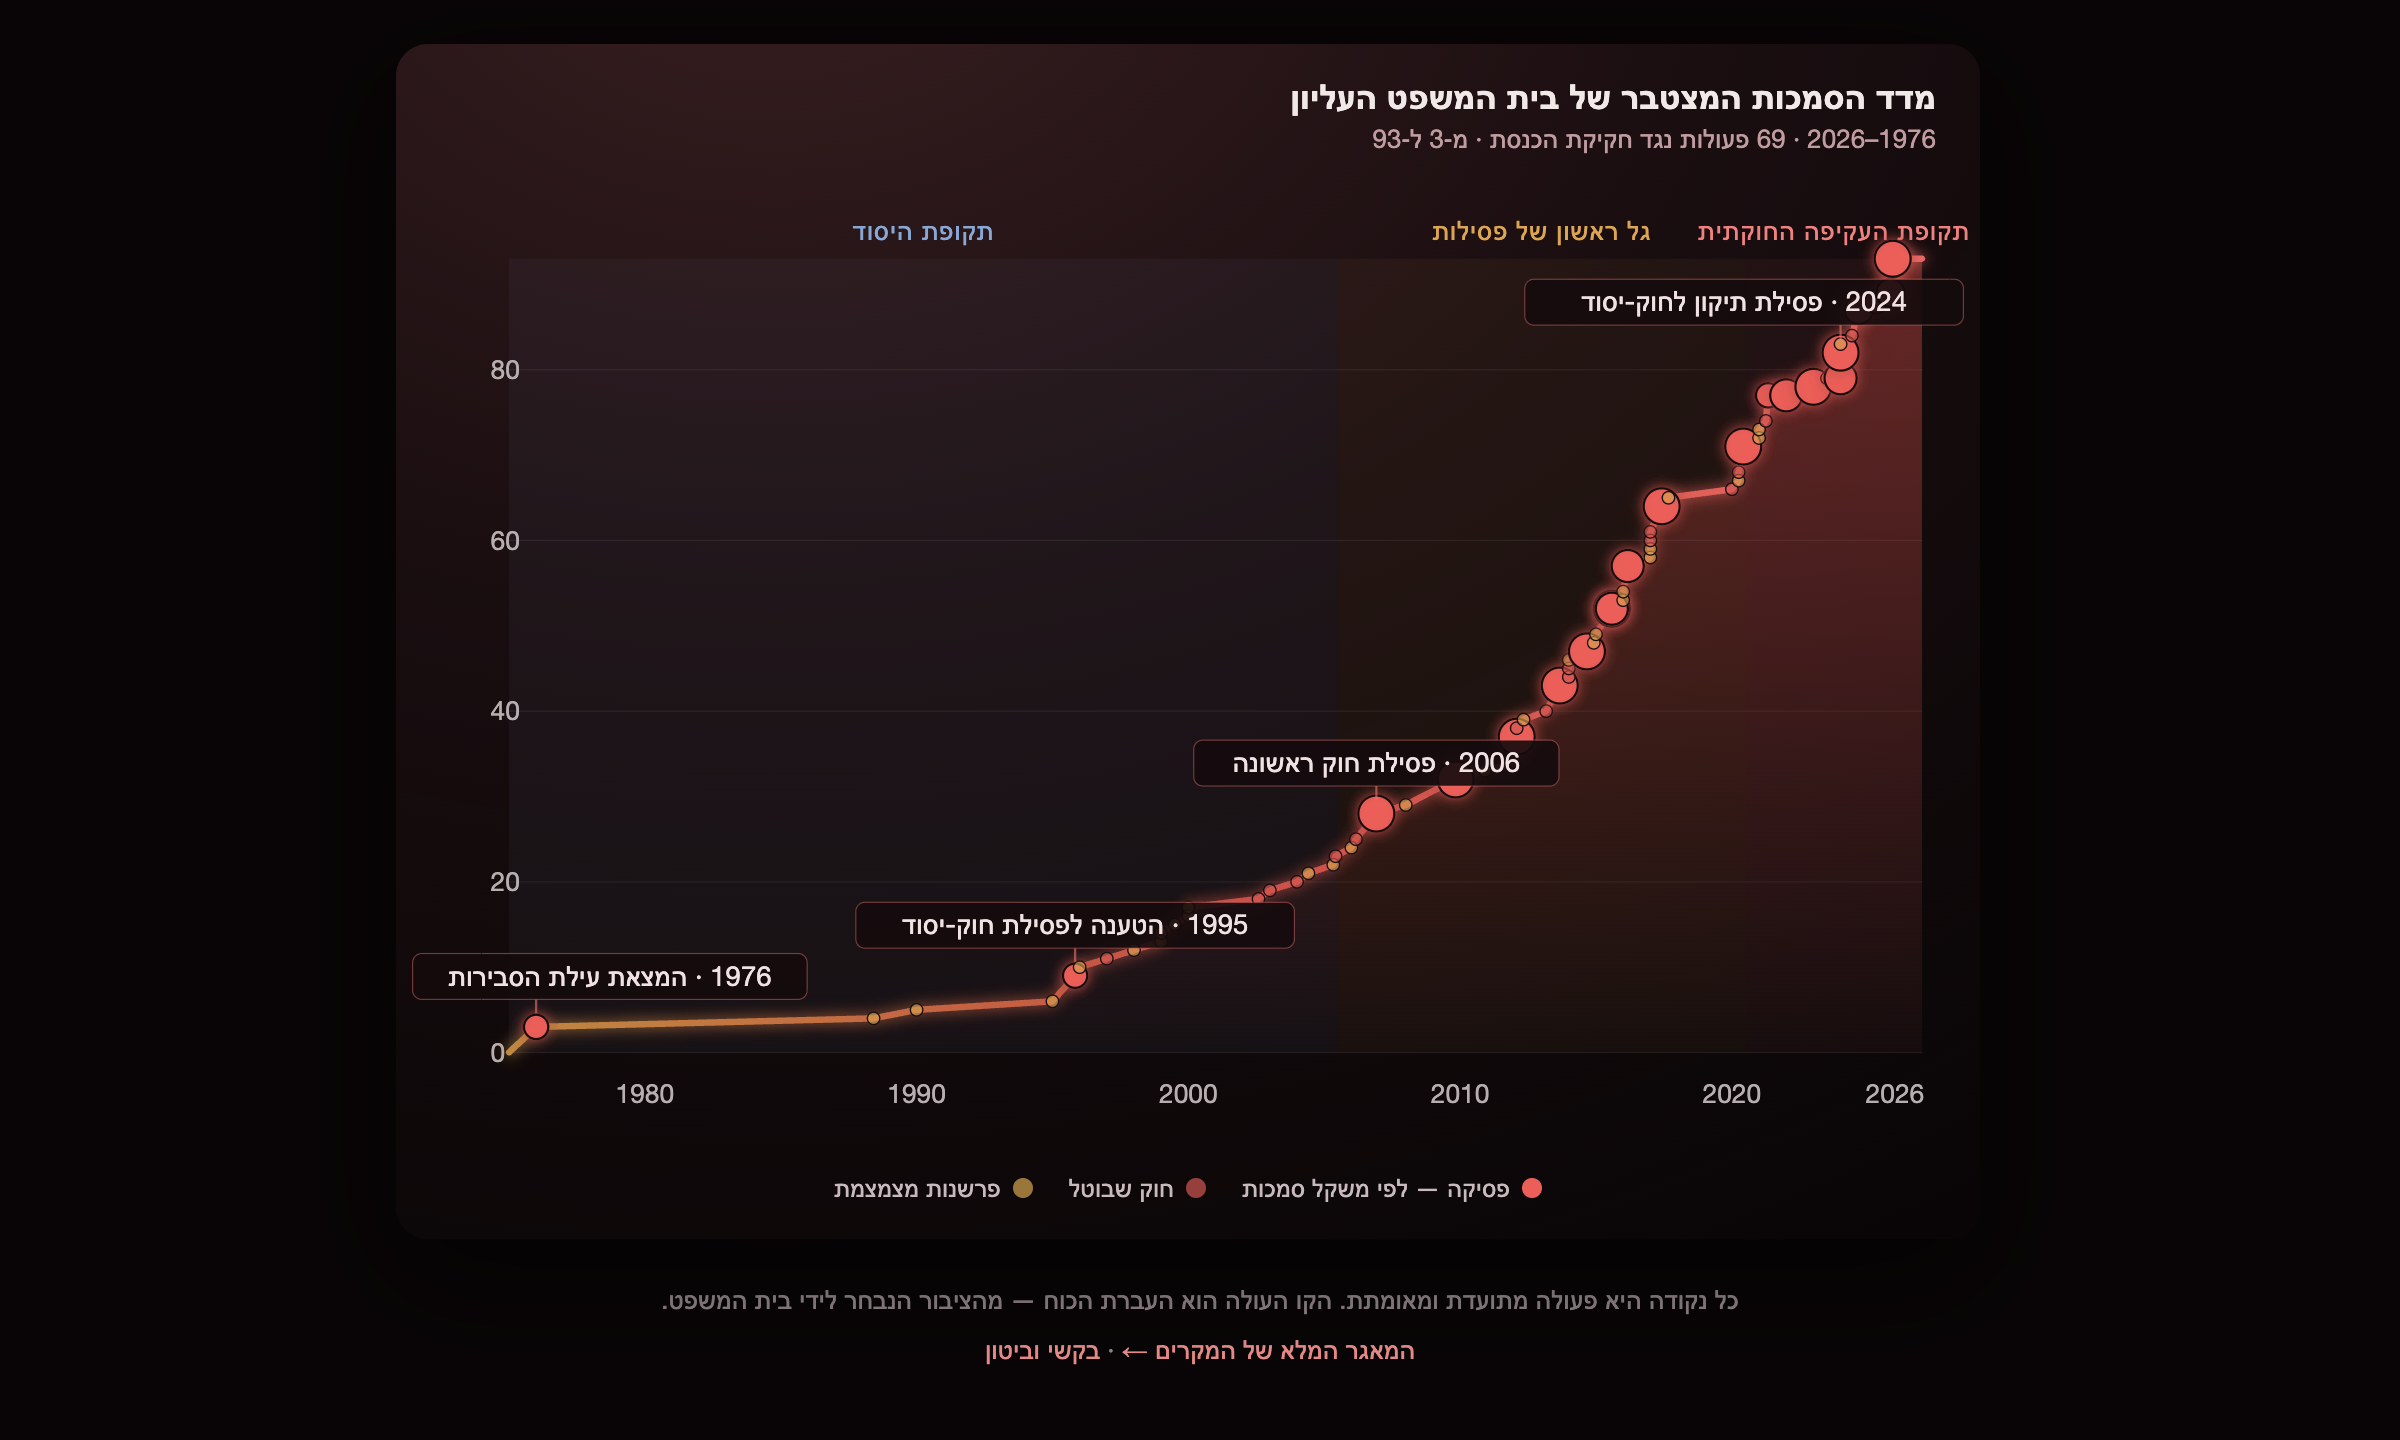
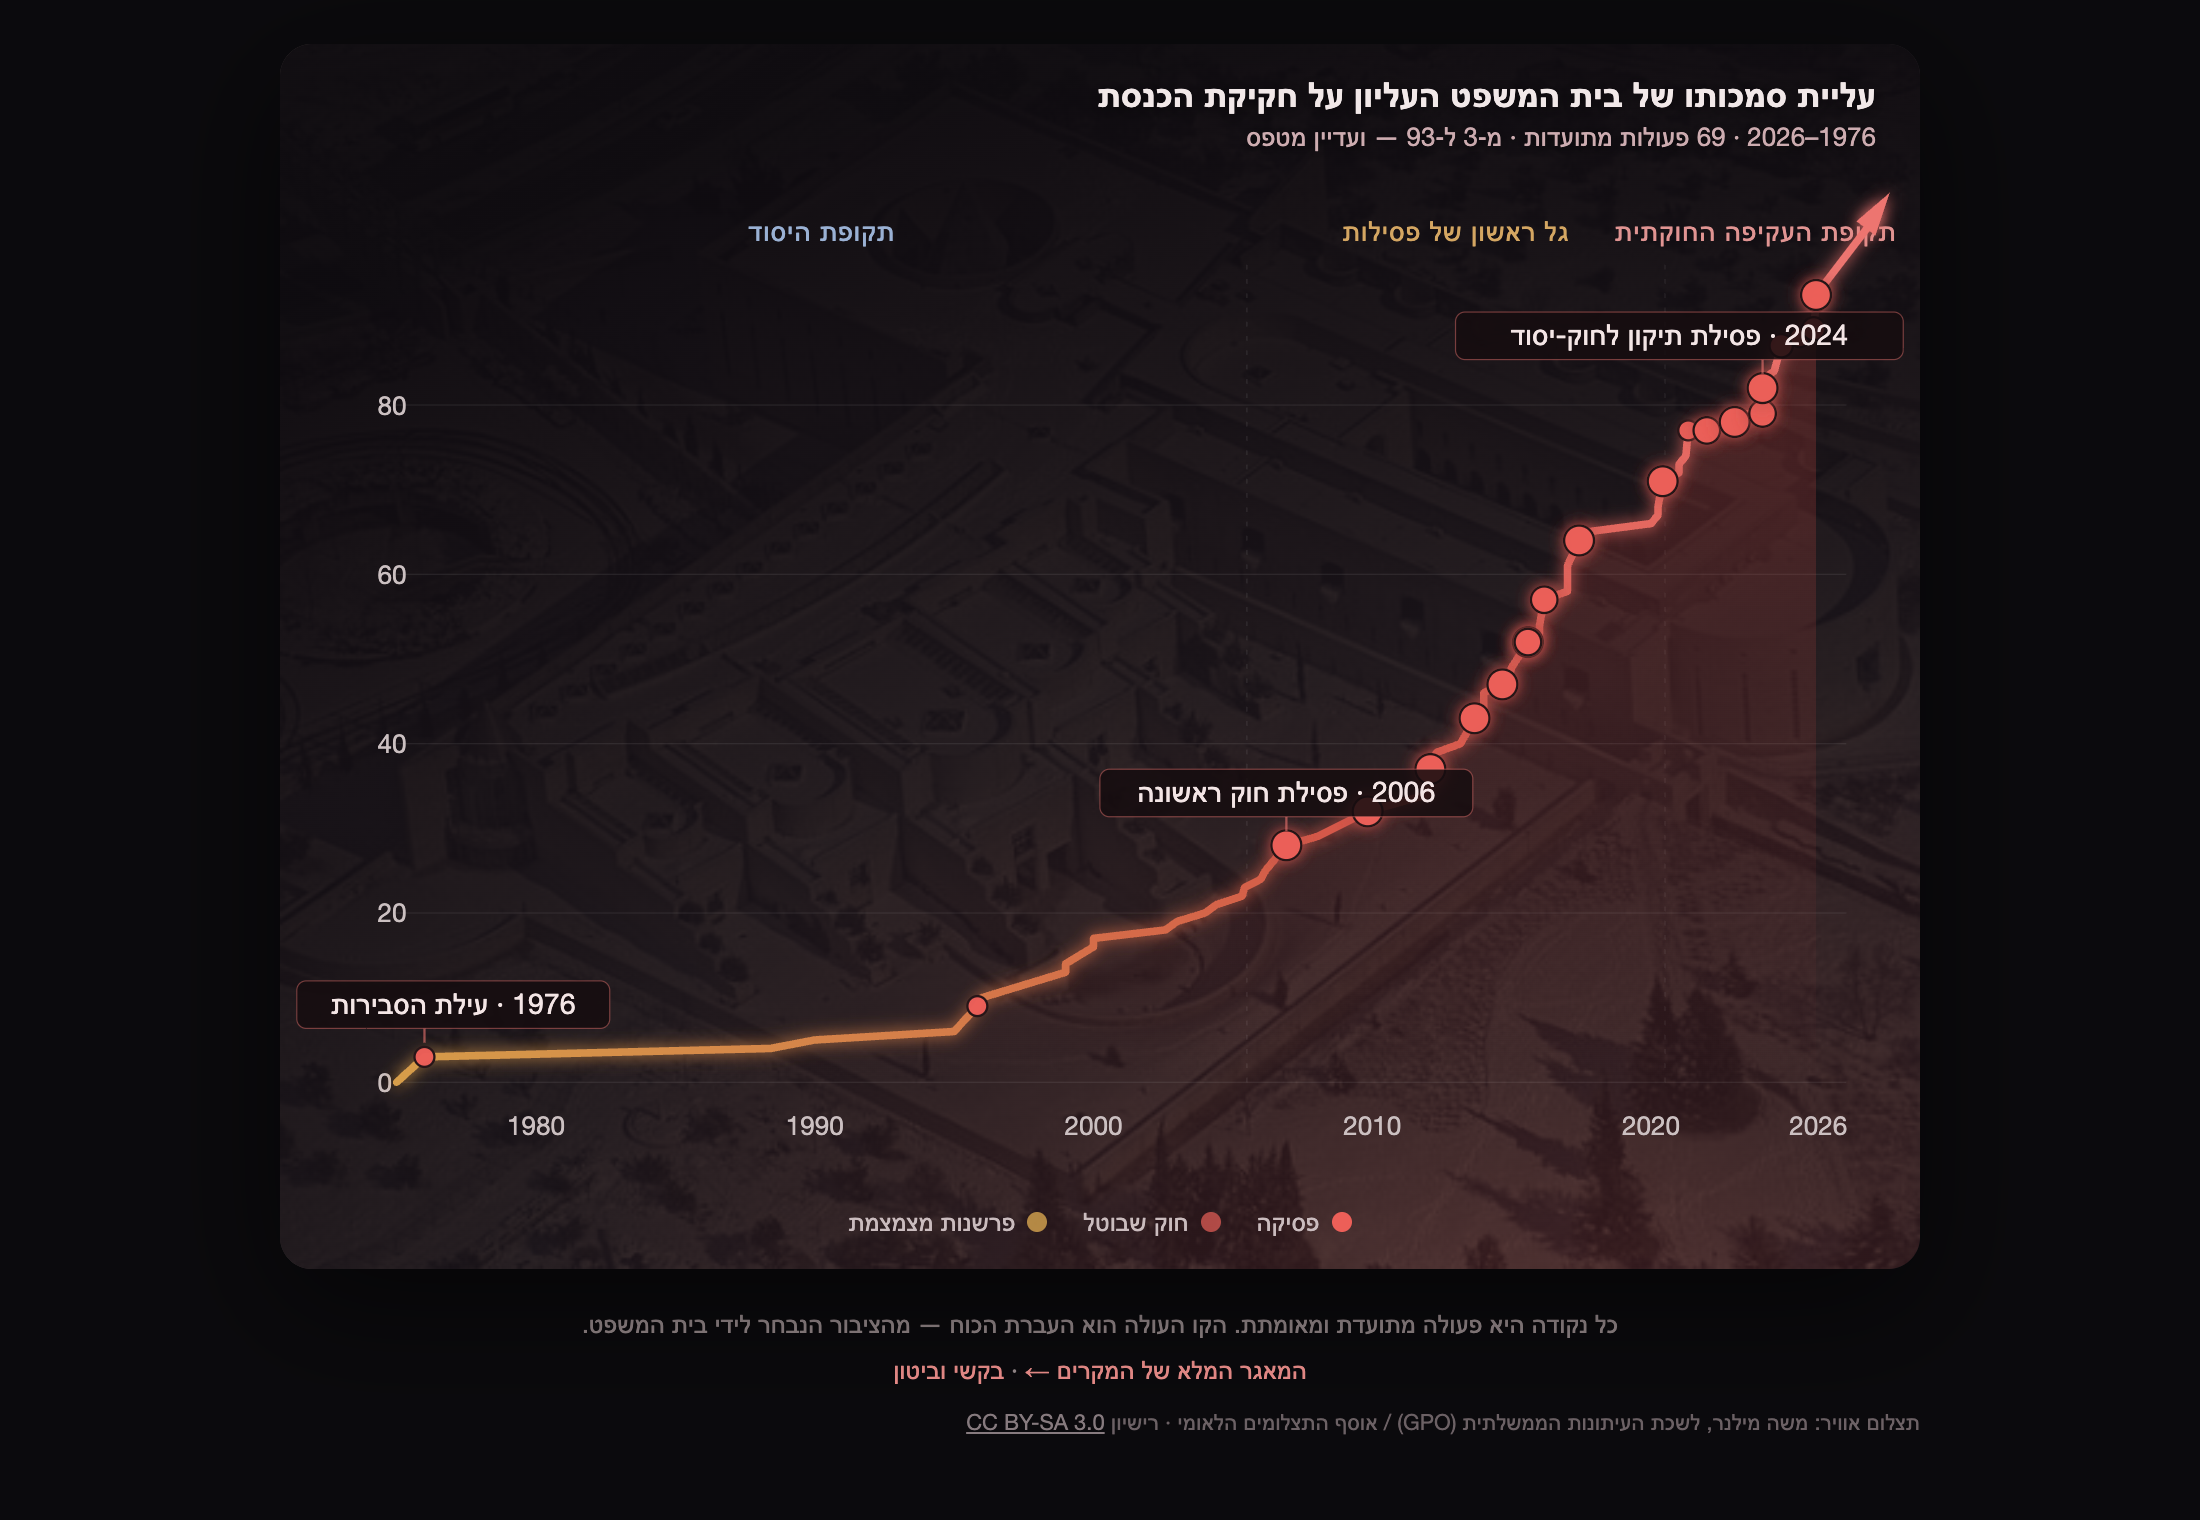
power-curve poster: real Supreme Court aerial as the building backdrop
Replaces the abstract hero with the building itself: the GPO aerial photo of the
Supreme Court (Moshe Milner / National Photo Collection, CC BY-SA 3.0, credited
on-page) treated to a faded slate/alarm-red duotone, looming behind the glowing
cumulative curve + arrowhead. Accurate (real photo), 3-D (true aerial), grave.
Same 69-event data; refreshed OG share image.

Changed region(s): [[0.1236, 0.0312, 0.8964, 0.9688], [0.1545, 0.5938, 0.2164, 0.625], [0.1545, 0.25, 0.2164, 0.2812]]

diff --git a/site/power-curve.html b/site/power-curve.html
@@ -1,30 +1,32 @@
 <!DOCTYPE html>
 <html lang="he" dir="rtl">
 <head>
-<meta name="google-site-verification" content="xjBO4qp4oVELM3i_R8MDu1IgT9S9u0hNMyDfKPHIWd4">
 <meta charset="UTF-8">
 <meta name="viewport" content="width=device-width, initial-scale=1">
-<title>מדד הסמכות המצטבר — בקשי וביטון</title>
-<meta name="description" content="עקומת הסמכות המצטברת של בית המשפט העליון, 1976–2026: 69 פעולות נגד חקיקת הכנסת, מ-3 ל-93. ככל שהקו עולה, כך הכוח עובר מהציבור הנבחר לבית המשפט.">
+<title>עליית סמכות בית המשפט העליון — בקשי וביטון</title>
+<meta name="description" content="עליית סמכותו של בית המשפט העליון על חקיקת הכנסת, 1976–2026: 69 פעולות מתועדות, מ-3 ל-93. הקו העולה על רקע בניין בית המשפט — הכוח עובר מהציבור הנבחר לבית המשפט.">
 <link rel="icon" href="assets/favicon.svg" type="image/svg+xml">
 <link rel="canonical" href="https://eleazarbensimon.github.io/bakshi-and-bitton/power-curve.html">
 <meta property="og:type" content="website">
 <meta property="og:site_name" content="Bakshi&Bitton · בקשי וביטון">
-<meta property="og:title" content="מדד הסמכות המצטבר של בית המשפט העליון, 1976–2026">
-<meta property="og:description" content="69 פעולות מתועדות נגד חקיקת הכנסת. הקו העולה הוא העברת הכוח מהציבור לבית המשפט — שטוח עד אמצע שנות ה-2000, ואז טיפוס חד.">
+<meta property="og:title" content="עליית סמכותו של בית המשפט העליון, 1976–2026">
+<meta property="og:description" content="69 פעולות מתועדות נגד חקיקת הכנסת, מ-3 ל-93 — ועדיין מטפס. הקו העולה על רקע בניין בית המשפט.">
 <meta property="og:url" content="https://eleazarbensimon.github.io/bakshi-and-bitton/power-curve.html">
 <meta property="og:image" content="https://eleazarbensimon.github.io/bakshi-and-bitton/assets/power-curve.png">
 <meta name="twitter:card" content="summary_large_image">
-<meta name="twitter:title" content="מדד הסמכות המצטבר של בית המשפט העליון, 1976–2026">
+<meta name="twitter:title" content="עליית סמכותו של בית המשפט העליון, 1976–2026">
 <meta name="twitter:image" content="https://eleazarbensimon.github.io/bakshi-and-bitton/assets/power-curve.png">
 <style>
-html,body{margin:0;background:#0a0506;color:#f3e7e8;font-family:-apple-system,"Segoe UI","Helvetica Neue",Arial,sans-serif;}
-.stage{max-width:780px;margin:0 auto;padding:22px 14px 30px;}
-.panel{position:relative;width:100%;border-radius:16px;overflow:hidden;padding:16px 6px 8px;background:radial-gradient(135% 130% at 24% -12%,#3c1d20 0%,#1b0d10 46%,#0a0506 100%);box-shadow:0 18px 60px rgba(0,0,0,.55);}
+html,body{margin:0;background:#0c0a0e;color:#f3e7e8;font-family:-apple-system,"Segoe UI","Helvetica Neue",Arial,sans-serif;}
+.stage{max-width:820px;margin:0 auto;padding:22px 14px 30px;}
+.panel{position:relative;width:100%;border-radius:16px;overflow:hidden;background:#16121a;box-shadow:0 18px 60px rgba(0,0,0,.55);}
+.scbg{position:absolute;inset:0;background:url("assets/supreme-court-aerial.jpg") center/cover no-repeat;opacity:.34;filter:grayscale(.6) brightness(.6) contrast(1.08) sepia(.5) hue-rotate(-10deg) saturate(1.6);}
+.scov{position:absolute;inset:0;background:radial-gradient(125% 108% at 80% 106%,rgba(126,42,46,.38) 0%,rgba(30,21,27,.7) 52%,rgba(15,11,16,.92) 100%);}
+.content{position:relative;z-index:2;padding:15px 6px 8px;}
 .hd{padding:0 16px 6px;text-align:right;}
-.ttl{font-size:17px;font-weight:600;letter-spacing:.2px;}
-.sub{color:#c79aa0;font-size:13px;margin-top:3px;}
-.lg{display:flex;flex-wrap:wrap;gap:18px;justify-content:center;padding:6px 10px 10px;font-size:12.5px;color:#cbb9bc;}
+.ttl{font-size:17px;font-weight:600;letter-spacing:.2px;text-shadow:0 1px 8px rgba(0,0,0,.6);}
+.sub{color:#d3aab0;font-size:13px;margin-top:3px;text-shadow:0 1px 6px rgba(0,0,0,.6);}
+.lg{display:flex;flex-wrap:wrap;gap:18px;justify-content:center;padding:6px 10px 8px;font-size:12.5px;color:#cdbbbe;}
 .lg .it{display:inline-flex;align-items:center;gap:6px;}
 .dl{width:10px;height:10px;border-radius:50%;display:inline-block;}
 .tip{position:absolute;pointer-events:none;opacity:0;transition:opacity .14s;z-index:6;}
@@ -33,47 +35,58 @@ html,body{margin:0;background:#0a0506;color:#f3e7e8;font-family:-apple-system,"S
 .tiparr.down{border-left:7px solid transparent;border-right:7px solid transparent;border-top:8px solid #fbf3ee;}
 .tiparr.up{border-left:7px solid transparent;border-right:7px solid transparent;border-bottom:8px solid #fbf3ee;}
 .ev{cursor:pointer;}
-.foot{margin-top:18px;text-align:center;font-size:13px;color:#9a8a8d;line-height:1.9;}
+.foot{margin-top:16px;text-align:center;font-size:12.5px;color:#9a8a8d;line-height:1.85;}
 .foot a{color:#ff8a8a;text-decoration:none;}
 .foot a:hover{text-decoration:underline;}
+.cred{margin-top:8px;font-size:11px;color:#6f6166;}
+.cred a{color:#8a7b80;}
 </style>
 </head>
 <body>
 <div class="stage">
   <div class="panel" id="cw">
-    <div class="hd"><div class="ttl">מדד הסמכות המצטבר של בית המשפט העליון</div><div class="sub">1976–2026 · 69 פעולות נגד חקיקת הכנסת · מ‑3 ל‑93</div></div>
-    <svg id="cv" width="100%" viewBox="0 0 680 430" role="img" aria-label="עקומת הסמכות המצטברת, 1976 עד 2026, עולה מ-3 ל-93"></svg>
-    <div class="lg">
-      <span class="it"><span class="dl" style="background:#ff5151"></span>פסיקה — לפי משקל סמכות</span>
-      <span class="it"><span class="dl" style="background:#e24b4a;opacity:.7"></span>חוק שבוטל</span>
-      <span class="it"><span class="dl" style="background:#e0a23a;opacity:.7"></span>פרשנות מצמצמת</span>
+    <div class="scbg"></div><div class="scov"></div>
+    <div class="content">
+      <div class="hd"><div class="ttl">עליית סמכותו של בית המשפט העליון על חקיקת הכנסת</div><div class="sub">1976–2026 · 69 פעולות מתועדות · מ‑3 ל‑93 — ועדיין מטפס</div></div>
+      <svg id="cv" width="100%" viewBox="0 0 680 430" role="img" aria-label="עקומת הסמכות העולה על רקע בניין בית המשפט העליון, 1976 עד 2026"></svg>
+      <div class="lg">
+        <span class="it"><span class="dl" style="background:#ff5151"></span>פסיקה</span>
+        <span class="it"><span class="dl" style="background:#e24b4a;opacity:.8"></span>חוק שבוטל</span>
+        <span class="it"><span class="dl" style="background:#e0a23a;opacity:.8"></span>פרשנות מצמצמת</span>
+      </div>
     </div>
     <div class="tip" id="tip"><div class="tipc" id="tipc"></div><div class="tiparr" id="tiparr"></div></div>
   </div>
   <div class="foot">כל נקודה היא פעולה מתועדת ומאומתת. הקו העולה הוא העברת הכוח — מהציבור הנבחר לידי בית המשפט.<br><a href="reading-quiet-veto.html">המאגר המלא של המקרים ←</a> · <a href="index.html">בקשי וביטון</a></div>
+  <div class="cred">תצלום אוויר: משה מילנר, לשכת העיתונות הממשלתית (GPO) / אוסף התצלומים הלאומי · רישיון <a href="https://commons.wikimedia.org/wiki/File:Flickr_-_Government_Press_Office_(GPO)_-_An_aerial_photo_of_the_supreme_court_building.jpg">CC BY-SA 3.0</a></div>
 </div>
 <script>
-const DATA=[{"x":1976.0,"y":3,"t":"r","sev":2,"lab":"בג\"ץ 156/75 — פאוזי דקה נ' שר התחבורה"},{"x":1988.417,"y":4,"t":"l","k":"read_down","lab":"910/86 — Ressler v. Minister of Defence"},{"x":1990.0,"y":5,"t":"l","k":"read_down","lab":"465/89 — Raskin v. Religious Council of Jerusalem"},{"x":1995.0,"y":6,"t":"l","k":"read_down","lab":"2316/95 — Ganimat v. State of Israel (Further Hearing)"},{"x":1995.833,"y":9,"t":"r","sev":2,"lab":"ע\"א 6821/93 — בנק המזרחי המאוחד נ' מגדל כפר שיתופי"},{"x":1996.0,"y":10,"t":"l","k":"read_down","lab":"4562/92 — Zandberg v. Broadcasting Authority"},{"x":1997.0,"y":11,"t":"l","k":"struck","lab":"1715/97 — לשכת מנהלי ההשקעות נ' שר האוצר"},{"x":1998.0,"y":12,"t":"l","k":"read_down","lab":"3267/97 — Rubinstein v. Minister of Defense"},{"x":1999.0,"y":13,"t":"l","k":"read_down","lab":"5100/94 — Public Committee Against Torture v. Government"},{"x":1999.0,"y":14,"t":"l","k":"struck","lab":"6055/95 — Tzemach v. Minister of Defense"},{"x":1999.5,"y":15,"t":"l","k":"read_down","lab":"6024/97 — Shavit v. Rishon LeZion Burial Society"},{"x":2000.0,"y":16,"t":"l","k":"read_down","lab":"7048/97 — Anonymous (Lebanese detainees) v. Min. Defense"},{"x":2000.0,"y":17,"t":"l","k":"read_down","lab":"6698/95 — Ka'adan v. Israel Land Administration"},{"x":2002.583,"y":18,"t":"l","k":"struck","lab":"244/00 — Mizrahi Democratic Rainbow v. Min. Infrastructure"},{"x":2003.0,"y":19,"t":"l","k":"struck","lab":"3239/02 — Marab v. IDF Commander in the West Bank"},{"x":2004.0,"y":20,"t":"l","k":"struck","lab":"1437/02 — ACRI v. Minister of Public Security"},{"x":2004.417,"y":21,"t":"l","k":"read_down","lab":"953/01 — Solodkin v. Beit Shemesh Municipality"},{"x":2005.333,"y":22,"t":"l","k":"read_down","lab":"2597/99 — Rodriguez-Tushbeim v. Minister of Interior"},{"x":2005.417,"y":23,"t":"l","k":"struck","lab":"1661/05 — Gaza Coast Regional Council v. The Knesset"},{"x":2006.0,"y":24,"t":"l","k":"read_down","lab":"6427/02 — MQG v. Knesset (Tal Law monitoring)"},{"x":2006.167,"y":25,"t":"l","k":"struck","lab":"4542/02 — Kav LaOved v. Government of Israel"},{"x":2006.917,"y":28,"t":"r","sev":5,"lab":"בג\"ץ 8276/05 — עדאלה נ' שר הביטחון"},{"x":2008.0,"y":29,"t":"l","k":"read_down","lab":"6659/06 — A v. State (Unlawful Combatants Law)"},{"x":2009.833,"y":32,"t":"r","sev":5,"lab":"בג\"ץ 2605/05 — המרכז האקדמי למשפט ולעסקים נ' שר האוצר"},{"x":2010.917,"y":33,"t":"l","k":"read_down","lab":"6824/07 — Mana'e v. Tax Authority"},{"x":2012.0,"y":34,"t":"l","k":"struck","lab":"8300/02 — גדבאן נסר נ' ממשלת ישראל"},{"x":2012.083,"y":37,"t":"r","sev":5,"lab":"בג\"ץ 6298/07 — יהודה רסלר נ' הכנסת"},{"x":2012.083,"y":38,"t":"l","k":"struck","lab":"10662/04 — Salah Hassan v. National Insurance"},{"x":2012.333,"y":39,"t":"l","k":"read_down","lab":"3809/08 — ACRI v. Police (Communications Data Law)"},{"x":2013.167,"y":40,"t":"l","k":"struck","lab":"3782/12 — TA District Commander v. Internet Association"},{"x":2013.667,"y":43,"t":"r","sev":5,"lab":"בג\"ץ 7146/12 — אדם נ' הכנסת"},{"x":2014.0,"y":44,"t":"l","k":"struck","lab":"7385/13 — Eitan v. Government (infiltration)"},{"x":2014.0,"y":45,"t":"l","k":"struck","lab":"8425/13 — Eitan v. The Government"},{"x":2014.0,"y":46,"t":"l","k":"read_down","lab":"2504/11 — Sabah v. Knesset (Admissions Committees)"},{"x":2014.667,"y":47,"t":"r","sev":5,"lab":"עע\"ם 662/11 — סלע נ' ראש המועצה כפר ורדים"},{"x":2014.917,"y":48,"t":"l","k":"read_down","lab":"8091/14 — HaMoked v. Minister of Defense"},{"x":2015.0,"y":49,"t":"l","k":"read_down","lab":"5239/11 — אבנרי נ' הכנסת (חוק החרם)"},{"x":2015.583,"y":52,"t":"r","sev":5,"lab":"בג\"ץ 3132/15 — סיעת יש עתיד נ' ראש הממשלה"},{"x":2015.583,"y":52,"t":"r","sev":4,"lab":"בג\"ץ 8665/14 — דסטה נ' הכנסת"},{"x":2016.0,"y":53,"t":"l","k":"read_down","lab":"5875/10 — Masorti & Progressive Movements v. Be'er Sheva"},{"x":2016.0,"y":54,"t":"l","k":"read_down","lab":"7625/06 — Rogachova v. Ministry of the Interior"},{"x":2016.167,"y":57,"t":"r","sev":4,"lab":"בג\"ץ 4374/15 — התנועה לאיכות השלטון נ' ראש הממשלה (גז)"},{"x":2017.0,"y":58,"t":"l","k":"read_down","lab":"8101/15 — צגטה נ' שר הפנים"},{"x":2017.0,"y":59,"t":"l","k":"read_down","lab":"5026/16 — גיני נ' הרבנות הראשית"},{"x":2017.0,"y":60,"t":"l","k":"struck","lab":"1877/14 — MQG v. Knesset (conscription)"},{"x":2017.0,"y":61,"t":"l","k":"struck","lab":"10042/16 — קווטינסקי נ' כנסת ישראל"},{"x":2017.417,"y":64,"t":"r","sev":5,"lab":"בג\"ץ 1892/14 — האגודה לזכויות האזרח נ' השר לבט\"פ"},{"x":2017.667,"y":65,"t":"l","k":"read_down","lab":"6494/14 — Gini v. Chief Rabbinate"},{"x":2020.0,"y":66,"t":"l","k":"struck","lab":"2293/17 — Garsegeber v. Knesset (Deposit Law)"},{"x":2020.25,"y":67,"t":"l","k":"read_down","lab":"2109/20 — בן מאיר נ' ראש הממשלה"},{"x":2020.25,"y":68,"t":"l","k":"struck","lab":"1550/18 — הפורום החילוני נ' שר הבריאות"},{"x":2020.417,"y":71,"t":"r","sev":5,"lab":"בג\"ץ 1308/17 — מועצה מקומית סילוואד נ' הכנסת"},{"x":2021.0,"y":72,"t":"l","k":"read_down","lab":"5555/18 — Hasson v. Knesset (Nation-State Law)"},{"x":2021.0,"y":73,"t":"l","k":"read_down","lab":"11013/05 — Reform/Conservative Conversions v. Interior"},{"x":2021.25,"y":74,"t":"l","k":"struck","lab":"5469/20 — National Responsibility v. Government"},{"x":2021.333,"y":77,"t":"r","sev":2,"lab":"בג\"ץ 5969/20 — סתיו שפיר נ' הכנסת"},{"x":2022.0,"y":77,"t":"r","sev":4,"lab":"בג\"ץ 5782/21 — זילבר נ' שר האוצר"},{"x":2023.0,"y":78,"t":"r","sev":5,"lab":"בג\"ץ 8948/22 — התנועה לאיכות השלטון נ' ראש הממשלה (דרעי)"},{"x":2023.5,"y":79,"t":"l","k":"struck","lab":"6942/19 — Tzebano v. Minister of Interior"},{"x":2024.0,"y":79,"t":"r","sev":4,"lab":"בג\"ץ 5119/23 — התנועה לאיכות השלטון נ' הכנסת (נבצרות)"},{"x":2024.0,"y":82,"t":"r","sev":5,"lab":"בג\"ץ 5658/23 — התנועה לאיכות השלטון נ' הכנסת (סבירות)"},{"x":2024.0,"y":83,"t":"l","k":"read_down","lab":"2412/23 — MQG v. Knesset (Incapacitation Law)"},{"x":2024.417,"y":84,"t":"l","k":"struck","lab":"6198/23 — MQG v. Minister of Defense"},{"x":2024.667,"y":87,"t":"r","sev":3,"lab":"בג\"ץ 8987/22 — התנועה לאיכות השלטון נ' שר המשפטים"},{"x":2025.333,"y":88,"t":"r","sev":2,"lab":"בג\"ץ 54321-03-25 — התנועה לאיכות השלטון נ' ממשלת ישראל"},{"x":2025.667,"y":89,"t":"l","k":"struck","lab":"7922/19 — Tzedek Financi v. State (Chief of Staff pension)"},{"x":2025.833,"y":89,"t":"r","sev":3,"lab":"בג\"ץ 5819/24 — התנועה לאיכות השלטון נ' שר הביטחון"},{"x":2025.917,"y":92,"t":"r","sev":1,"lab":"בג\"ץ 427/10/25 — התנועה לאיכות השלטון נ' ממשלת ישראל (זיני)"},{"x":2025.917,"y":93,"t":"r","sev":5,"lab":"בג\"ץ 18225-06-25 — גילון נ' ממשלת ישראל (בהרב-מיארה)"}];
-const ANN=[[1976.0,3,"1976 · המצאת עילת הסבירות"],[1995.833,9,"1995 · הטענה לפסילת חוק-יסוד"],[2006.917,28,"2006 · פסילת חוק ראשונה"],[2024.0,82,"2024 · פסילת תיקון לחוק-יסוד"]];
-const ERAS=[[1975,2005.5,"תקופת היסוד","#7fa8d8"],[2005.5,2020.5,"גל ראשון של פסילות","#e6a23c"],[2020.5,2027,"תקופת העקיפה החוקתית","#ff7a7a"]];
-const NS="http://www.w3.org/2000/svg",W=680,H=430,ML=44,MR=20,MT=40,MB=44,iW=W-ML-MR,iH=H-MT-MB,X0=1975,X1=2027,CM=93;
+const DATA=[{"x":1976.0,"y":3,"t":"r","sev":2,"lab":"בג\"ץ 156/75 — פאוזי דקה נ' שר התחבורה"},{"x":1988.417,"y":4,"t":"l","k":"read_down","lab":"910/86 — Ressler v. Minister of Defence"},{"x":1990.0,"y":5,"t":"l","k":"read_down","lab":"465/89 — Raskin v. Religious Council"},{"x":1995.0,"y":6,"t":"l","k":"read_down","lab":"2316/95 — Ganimat v. State (Further Hearing)"},{"x":1995.833,"y":9,"t":"r","sev":2,"lab":"ע\"א 6821/93 — בנק המזרחי נ' מגדל כפר שיתופי"},{"x":1996.0,"y":10,"t":"l","k":"read_down","lab":"4562/92 — Zandberg v. Broadcasting Authority"},{"x":1997.0,"y":11,"t":"l","k":"struck","lab":"1715/97 — לשכת מנהלי ההשקעות נ' שר האוצר"},{"x":1998.0,"y":12,"t":"l","k":"read_down","lab":"3267/97 — Rubinstein v. Minister of Defense"},{"x":1999.0,"y":13,"t":"l","k":"read_down","lab":"5100/94 — Cmte Against Torture v. Government"},{"x":1999.0,"y":14,"t":"l","k":"struck","lab":"6055/95 — Tzemach v. Minister of Defense"},{"x":1999.5,"y":15,"t":"l","k":"read_down","lab":"6024/97 — Shavit v. Rishon LeZion Burial Soc."},{"x":2000.0,"y":16,"t":"l","k":"read_down","lab":"7048/97 — Anonymous (Lebanese detainees)"},{"x":2000.0,"y":17,"t":"l","k":"read_down","lab":"6698/95 — Ka'adan v. Israel Land Administration"},{"x":2002.583,"y":18,"t":"l","k":"struck","lab":"244/00 — Mizrahi Democratic Rainbow"},{"x":2003.0,"y":19,"t":"l","k":"struck","lab":"3239/02 — Marab v. IDF Commander West Bank"},{"x":2004.0,"y":20,"t":"l","k":"struck","lab":"1437/02 — ACRI v. Minister of Public Security"},{"x":2004.417,"y":21,"t":"l","k":"read_down","lab":"953/01 — Solodkin v. Beit Shemesh"},{"x":2005.333,"y":22,"t":"l","k":"read_down","lab":"2597/99 — Rodriguez-Tushbeim v. Interior"},{"x":2005.417,"y":23,"t":"l","k":"struck","lab":"1661/05 — Gaza Coast Regional Council v. Knesset"},{"x":2006.0,"y":24,"t":"l","k":"read_down","lab":"6427/02 — MQG v. Knesset (Tal Law)"},{"x":2006.167,"y":25,"t":"l","k":"struck","lab":"4542/02 — Kav LaOved v. Government"},{"x":2006.917,"y":28,"t":"r","sev":5,"lab":"בג\"ץ 8276/05 — עדאלה נ' שר הביטחון"},{"x":2008.0,"y":29,"t":"l","k":"read_down","lab":"6659/06 — A v. State (Unlawful Combatants)"},{"x":2009.833,"y":32,"t":"r","sev":5,"lab":"בג\"ץ 2605/05 — המרכז האקדמי נ' שר האוצר"},{"x":2010.917,"y":33,"t":"l","k":"read_down","lab":"6824/07 — Mana'e v. Tax Authority"},{"x":2012.0,"y":34,"t":"l","k":"struck","lab":"8300/02 — גדבאן נסר נ' ממשלת ישראל"},{"x":2012.083,"y":37,"t":"r","sev":5,"lab":"בג\"ץ 6298/07 — יהודה רסלר נ' הכנסת"},{"x":2012.083,"y":38,"t":"l","k":"struck","lab":"10662/04 — Salah Hassan v. National Insurance"},{"x":2012.333,"y":39,"t":"l","k":"read_down","lab":"3809/08 — ACRI v. Police (Comms Data Law)"},{"x":2013.167,"y":40,"t":"l","k":"struck","lab":"3782/12 — TA Commander v. Internet Association"},{"x":2013.667,"y":43,"t":"r","sev":5,"lab":"בג\"ץ 7146/12 — אדם נ' הכנסת"},{"x":2014.0,"y":44,"t":"l","k":"struck","lab":"7385/13 — Eitan v. Government (infiltration)"},{"x":2014.0,"y":45,"t":"l","k":"struck","lab":"8425/13 — Eitan v. The Government"},{"x":2014.0,"y":46,"t":"l","k":"read_down","lab":"2504/11 — Sabah v. Knesset (Admissions Cmtes)"},{"x":2014.667,"y":47,"t":"r","sev":5,"lab":"עע\"ם 662/11 — סלע נ' כפר ורדים"},{"x":2014.917,"y":48,"t":"l","k":"read_down","lab":"8091/14 — HaMoked v. Minister of Defense"},{"x":2015.0,"y":49,"t":"l","k":"read_down","lab":"5239/11 — אבנרי נ' הכנסת (חוק החרם)"},{"x":2015.583,"y":52,"t":"r","sev":5,"lab":"בג\"ץ 3132/15 — סיעת יש עתיד נ' ראש הממשלה"},{"x":2015.583,"y":52,"t":"r","sev":4,"lab":"בג\"ץ 8665/14 — דסטה נ' הכנסת"},{"x":2016.0,"y":53,"t":"l","k":"read_down","lab":"5875/10 — Masorti & Progressive v. Be'er Sheva"},{"x":2016.0,"y":54,"t":"l","k":"read_down","lab":"7625/06 — Rogachova v. Interior"},{"x":2016.167,"y":57,"t":"r","sev":4,"lab":"בג\"ץ 4374/15 — התנועה לאיכות השלטון (גז)"},{"x":2017.0,"y":58,"t":"l","k":"read_down","lab":"8101/15 — צגטה נ' שר הפנים"},{"x":2017.0,"y":59,"t":"l","k":"read_down","lab":"5026/16 — גיני נ' הרבנות הראשית"},{"x":2017.0,"y":60,"t":"l","k":"struck","lab":"1877/14 — MQG v. Knesset (conscription)"},{"x":2017.0,"y":61,"t":"l","k":"struck","lab":"10042/16 — קווטינסקי נ' כנסת ישראל"},{"x":2017.417,"y":64,"t":"r","sev":5,"lab":"בג\"ץ 1892/14 — האגודה לזכויות האזרח"},{"x":2017.667,"y":65,"t":"l","k":"read_down","lab":"6494/14 — Gini v. Chief Rabbinate"},{"x":2020.0,"y":66,"t":"l","k":"struck","lab":"2293/17 — Garsegeber v. Knesset (Deposit Law)"},{"x":2020.25,"y":67,"t":"l","k":"read_down","lab":"2109/20 — בן מאיר נ' ראש הממשלה"},{"x":2020.25,"y":68,"t":"l","k":"struck","lab":"1550/18 — הפורום החילוני נ' שר הבריאות"},{"x":2020.417,"y":71,"t":"r","sev":5,"lab":"בג\"ץ 1308/17 — סילוואד נ' הכנסת"},{"x":2021.0,"y":72,"t":"l","k":"read_down","lab":"5555/18 — Hasson v. Knesset (Nation-State Law)"},{"x":2021.0,"y":73,"t":"l","k":"read_down","lab":"11013/05 — Reform/Conservative Conversions"},{"x":2021.25,"y":74,"t":"l","k":"struck","lab":"5469/20 — National Responsibility v. Government"},{"x":2021.333,"y":77,"t":"r","sev":2,"lab":"בג\"ץ 5969/20 — סתיו שפיר נ' הכנסת"},{"x":2022.0,"y":77,"t":"r","sev":4,"lab":"בג\"ץ 5782/21 — זילבר נ' שר האוצר"},{"x":2023.0,"y":78,"t":"r","sev":5,"lab":"בג\"ץ 8948/22 — לאיכות השלטון נ' ראש הממשלה (דרעי)"},{"x":2023.5,"y":79,"t":"l","k":"struck","lab":"6942/19 — Tzebano v. Minister of Interior"},{"x":2024.0,"y":79,"t":"r","sev":4,"lab":"בג\"ץ 5119/23 — לאיכות השלטון נ' הכנסת (נבצרות)"},{"x":2024.0,"y":82,"t":"r","sev":5,"lab":"בג\"ץ 5658/23 — לאיכות השלטון נ' הכנסת (סבירות)"},{"x":2024.0,"y":83,"t":"l","k":"read_down","lab":"2412/23 — MQG v. Knesset (Incapacitation Law)"},{"x":2024.417,"y":84,"t":"l","k":"struck","lab":"6198/23 — MQG v. Minister of Defense"},{"x":2024.667,"y":87,"t":"r","sev":3,"lab":"בג\"ץ 8987/22 — לאיכות השלטון נ' שר המשפטים"},{"x":2025.333,"y":88,"t":"r","sev":2,"lab":"בג\"ץ 54321-03-25 — לאיכות השלטון נ' ממשלת ישראל"},{"x":2025.667,"y":89,"t":"l","k":"struck","lab":"7922/19 — Tzedek Financi v. State"},{"x":2025.833,"y":89,"t":"r","sev":3,"lab":"בג\"ץ 5819/24 — לאיכות השלטון נ' שר הביטחון"},{"x":2025.917,"y":92,"t":"r","sev":1,"lab":"בג\"ץ 427/10/25 — לאיכות השלטון (זיני)"},{"x":2025.917,"y":93,"t":"r","sev":5,"lab":"בג\"ץ 18225-06-25 — גילון נ' ממשלת ישראל (בהרב-מיארה)"}];
+const ANN=[[1976.0,3,"1976 · עילת הסבירות"],[2006.917,28,"2006 · פסילת חוק ראשונה"],[2024.0,82,"2024 · פסילת תיקון לחוק-יסוד"]];
+const ERAS=[[1975,2005.5,"תקופת היסוד","#9fc0e8"],[2005.5,2020.5,"גל ראשון של פסילות","#eeb05a"],[2020.5,2027,"תקופת העקיפה החוקתית","#ff9a9a"]];
+const NS="http://www.w3.org/2000/svg",W=680,H=430,ML=44,MR=26,MT=44,MB=44,iW=W-ML-MR,iH=H-MT-MB,X0=1975,X1=2027,CM=96;
 const xOf=y=>ML+(y-X0)/(X1-X0)*iW, yOf=c=>MT+iH-(c/CM)*iH;
 const svg=document.getElementById("cv");
-svg.insertAdjacentHTML("afterbegin",'<defs><linearGradient id="lg" x1="0" y1="0" x2="1" y2="0"><stop offset="0" stop-color="#c9852e"/><stop offset="0.5" stop-color="#d8443f"/><stop offset="1" stop-color="#ff5d5d"/></linearGradient><linearGradient id="ag" x1="0" y1="0" x2="0" y2="1"><stop offset="0" stop-color="#e23b3b" stop-opacity="0.40"/><stop offset="1" stop-color="#e23b3b" stop-opacity="0"/></linearGradient><filter id="glow" x="-60%" y="-60%" width="220%" height="220%"><feGaussianBlur stdDeviation="3" result="b"/><feMerge><feMergeNode in="b"/><feMergeNode in="SourceGraphic"/></feMerge></filter></defs>');
+svg.insertAdjacentHTML("afterbegin",'<defs><linearGradient id="hline" x1="0" y1="1" x2="1" y2="0"><stop offset="0" stop-color="#e09a35"/><stop offset="0.5" stop-color="#e64b41"/><stop offset="1" stop-color="#ff6a6a"/></linearGradient><linearGradient id="harea" x1="0" y1="0" x2="0" y2="1"><stop offset="0" stop-color="#e23b3b" stop-opacity="0.30"/><stop offset="1" stop-color="#e23b3b" stop-opacity="0"/></linearGradient><filter id="hglow" x="-70%" y="-70%" width="240%" height="240%"><feGaussianBlur stdDeviation="3.2" result="b"/><feMerge><feMergeNode in="b"/><feMergeNode in="SourceGraphic"/></feMerge></filter></defs>');
 function S(t,a,st){const e=document.createElementNS(NS,t);for(const k in a)e.setAttribute(k,a[k]);if(st)for(const k in st)e.style[k]=st[k];svg.appendChild(e);return e;}
-ERAS.forEach(([s,en,lab,col])=>{const x1=xOf(Math.max(s,X0)),x2=xOf(Math.min(en,X1));S("rect",{x:x1,y:MT,width:x2-x1,height:iH,fill:col,"fill-opacity":0.05});const t=S("text",{x:(x1+x2)/2,y:MT-8,"text-anchor":"middle","font-size":11.5,"font-weight":500,fill:col,"letter-spacing":"0.3"});t.textContent=lab;});
-[0,20,40,60,80].forEach(c=>{const y=yOf(c);S("line",{x1:ML,x2:ML+iW,y1:y,y2:y,stroke:"#ffffff","stroke-opacity":0.07,"stroke-width":0.5});const t=S("text",{x:ML-8,y:y+4,"text-anchor":"end","font-size":11.5,fill:"#b9adb0"});t.textContent=c;});
-[1980,1990,2000,2010,2020,2026].forEach(yr=>{const t=S("text",{x:xOf(yr),y:MT+iH+22,"text-anchor":"middle","font-size":11.5,fill:"#b9adb0"});t.textContent=yr;});
-let pts=[[X0,0]].concat(DATA.map(d=>[d.x,d.y])).concat([[X1,CM]]);
+const base=yOf(0);
+ERAS.forEach(([s,en,lab,col])=>{const x1=xOf(Math.max(s,X0)),x2=xOf(Math.min(en,X1));const t=S("text",{x:(x1+x2)/2,y:MT-12,"text-anchor":"middle","font-size":11.5,"font-weight":500,fill:col,"letter-spacing":"0.3","fill-opacity":0.92});t.textContent=lab;});
+ERAS.slice(1).forEach(([s])=>S("line",{x1:xOf(s),x2:xOf(s),y1:MT-2,y2:base,stroke:"#fff","stroke-opacity":0.09,"stroke-width":0.5,"stroke-dasharray":"2 4"}));
+[0,20,40,60,80].forEach(c=>{const y=yOf(c);S("line",{x1:ML,x2:ML+iW,y1:y,y2:y,stroke:"#fff","stroke-opacity":0.08,"stroke-width":0.5});const t=S("text",{x:ML-8,y:y+4,"text-anchor":"end","font-size":11,fill:"#cdbfc1"});t.textContent=c;});
+[1980,1990,2000,2010,2020,2026].forEach(yr=>{const t=S("text",{x:xOf(yr),y:base+22,"text-anchor":"middle","font-size":11,fill:"#cdbfc1"});t.textContent=yr;});
+let pts=[[X0,0]].concat(DATA.map(d=>[d.x,d.y]));
 let dp="M "+pts.map(p=>xOf(p[0])+" "+yOf(p[1])).join(" L ");
-S("path",{d:dp+" L "+xOf(X1)+" "+yOf(0)+" L "+xOf(X0)+" "+yOf(0)+" Z",fill:"url(#ag)",stroke:"none"});
-const line=S("path",{d:dp,fill:"none",stroke:"url(#lg)","stroke-width":2.8,"stroke-linecap":"round","stroke-linejoin":"round",filter:"url(#glow)"});
-const len=line.getTotalLength();line.style.strokeDasharray=len;line.style.strokeDashoffset=len;line.getBoundingClientRect();line.style.transition="stroke-dashoffset 1.9s ease";line.style.strokeDashoffset=0;
-const hl=S("circle",{cx:-10,cy:-10,r:0,fill:"none",stroke:"#ffffff","stroke-width":2,filter:"url(#glow)"},{opacity:0,transition:"opacity .12s"});
-DATA.forEach((d,i)=>{const cx=xOf(d.x),cy=yOf(d.y);let r,fill,op,fl;if(d.t==="r"){r=3.6+d.sev*0.85;fill="#ff5151";op=0.96;fl="url(#glow)";}else{r=2.7;fill=d.k==="struck"?"#e24b4a":"#e0a23a";op=0.62;fl="none";}const c=S("circle",{cx:cx,cy:cy,r:r,fill:fill,"fill-opacity":op,stroke:"#1a0d10","stroke-width":d.t==="r"?1:0.6,filter:fl},{opacity:0,transition:"opacity .4s ease"});c.dataset.vx=cx;c.dataset.vy=cy;c.dataset.r=r;c.dataset.lab=d.lab;c.setAttribute("class","ev");c.addEventListener("pointerover",()=>showTip(c));c.addEventListener("pointerout",hideTip);setTimeout(()=>{c.style.opacity=1;},350+i*7);});
-ANN.forEach(([x,y,txt])=>{const dx=xOf(x),dy=yOf(y),bw=txt.length*6.4+12,bh=20;let bx=Math.max(2,Math.min(dx-bw/2,W-bw-2)),by=dy-32;S("line",{x1:dx,y1:dy-6,x2:Math.max(bx+10,Math.min(dx,bx+bw-10)),y2:by+bh,stroke:"#ff6a6a","stroke-width":1,"stroke-opacity":0.6});S("rect",{x:bx,y:by,width:bw,height:bh,rx:4,fill:"#160a0d","fill-opacity":0.9,stroke:"#ff6a6a","stroke-opacity":0.45,"stroke-width":0.5});const t=S("text",{x:bx+bw/2,y:by+bh/2+4,"text-anchor":"middle","font-size":12,fill:"#f3e1e2"});t.textContent=txt;});
+S("path",{d:dp+" L "+xOf(DATA[DATA.length-1].x)+" "+base+" L "+xOf(X0)+" "+base+" Z",fill:"url(#harea)",stroke:"none"});
+const line=S("path",{d:dp,fill:"none",stroke:"url(#hline)","stroke-width":3.2,"stroke-linecap":"round","stroke-linejoin":"round",filter:"url(#hglow)"});
+const lx=xOf(DATA[DATA.length-1].x),ly=yOf(93),ax=lx+26,ay=ly-34;
+S("line",{x1:lx,y1:ly,x2:ax,y2:ay,stroke:"#ff6a6a","stroke-width":3.2,"stroke-linecap":"round",filter:"url(#hglow)"});
+S("path",{d:`M ${ax-9} ${ay+3} L ${ax+5} ${ay-9} L ${ax-1} ${ay+9} Z`,fill:"#ff6a6a",filter:"url(#hglow)"});
+const len=line.getTotalLength();line.style.strokeDasharray=len;line.style.strokeDashoffset=len;line.getBoundingClientRect();line.style.transition="stroke-dashoffset 2.1s ease";line.style.strokeDashoffset=0;
+const hl=S("circle",{cx:-10,cy:-10,r:0,fill:"none",stroke:"#fff","stroke-width":2,filter:"url(#hglow)"},{opacity:0,transition:"opacity .12s"});
+DATA.forEach((d,i)=>{if(d.t!=="r")return;const cx=xOf(d.x),cy=yOf(d.y),r=2.8+d.sev*0.7;const c=S("circle",{cx:cx,cy:cy,r:r,fill:"#ff5151","fill-opacity":0.98,stroke:"#2a1518","stroke-width":1,filter:d.sev>=4?"url(#hglow)":"none"},{opacity:0,transition:"opacity .4s ease"});c.dataset.vx=cx;c.dataset.vy=cy;c.dataset.r=r;c.dataset.lab=d.lab;c.setAttribute("class","ev");c.addEventListener("pointerover",()=>showTip(c));c.addEventListener("pointerout",hideTip);setTimeout(()=>{c.style.opacity=1;},500+i*6);});
+ANN.forEach(([x,y,txt])=>{const dx=xOf(x),dy=yOf(y),bw=txt.length*6.3+12,bh=20;let bx=Math.max(2,Math.min(dx-bw/2,W-bw-2)),by=dy-32;S("line",{x1:dx,y1:dy-6,x2:Math.max(bx+10,Math.min(dx,bx+bw-10)),y2:by+bh,stroke:"#ff6a6a","stroke-width":1,"stroke-opacity":0.6});S("rect",{x:bx,y:by,width:bw,height:bh,rx:4,fill:"#170c0f","fill-opacity":0.86,stroke:"#ff6a6a","stroke-opacity":0.45,"stroke-width":0.5});const t=S("text",{x:bx+bw/2,y:by+bh/2+4,"text-anchor":"middle","font-size":12,fill:"#f6e4e5"});t.textContent=txt;});
 const wrap=document.getElementById("cw"),tip=document.getElementById("tip"),tipc=document.getElementById("tipc"),arr=document.getElementById("tiparr");
-function showTip(c){const vx=+c.dataset.vx,vy=+c.dataset.vy,r=+c.dataset.r;hl.setAttribute("cx",vx);hl.setAttribute("cy",vy);hl.setAttribute("r",r+4);hl.style.opacity=1;const s=svg.clientWidth/680,wrc=wrap.getBoundingClientRect(),svc=svg.getBoundingClientRect();const offx=svc.left-wrc.left,offy=svc.top-wrc.top;const dx=offx+vx*s,dy=offy+vy*s,rp=r*s;tipc.textContent=c.dataset.lab;tip.style.opacity=1;const bw=tipc.offsetWidth,bh=tipc.offsetHeight;const below=vy<132;let left=Math.max(4,Math.min(dx-bw/2,wrc.width-bw-4));let top=below?dy+rp+9:dy-rp-9-bh;tip.style.left=left+"px";tip.style.top=top+"px";arr.className="tiparr "+(below?"up":"down");let al=dx-left-7;al=Math.max(8,Math.min(al,bw-22));arr.style.left=al+"px";arr.style.top=(below?-7:bh-1)+"px";}
+function showTip(c){const vx=+c.dataset.vx,vy=+c.dataset.vy,r=+c.dataset.r;hl.setAttribute("cx",vx);hl.setAttribute("cy",vy);hl.setAttribute("r",r+4);hl.style.opacity=1;const s=svg.clientWidth/680,wrc=wrap.getBoundingClientRect(),svc=svg.getBoundingClientRect();const dx=(svc.left-wrc.left)+vx*s,dy=(svc.top-wrc.top)+vy*s,rp=r*s;tipc.textContent=c.dataset.lab;tip.style.opacity=1;const bw=tipc.offsetWidth,bh=tipc.offsetHeight;const below=vy<140;let left=Math.max(4,Math.min(dx-bw/2,wrc.width-bw-4));tip.style.left=left+"px";tip.style.top=(below?dy+rp+9:dy-rp-9-bh)+"px";arr.className="tiparr "+(below?"up":"down");arr.style.left=Math.max(8,Math.min(dx-left-7,bw-22))+"px";arr.style.top=(below?-7:bh-1)+"px";}
 function hideTip(){tip.style.opacity=0;hl.style.opacity=0;}
 </script>
 </body>